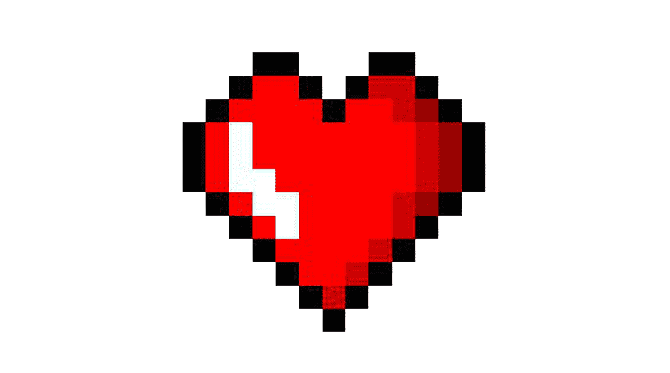
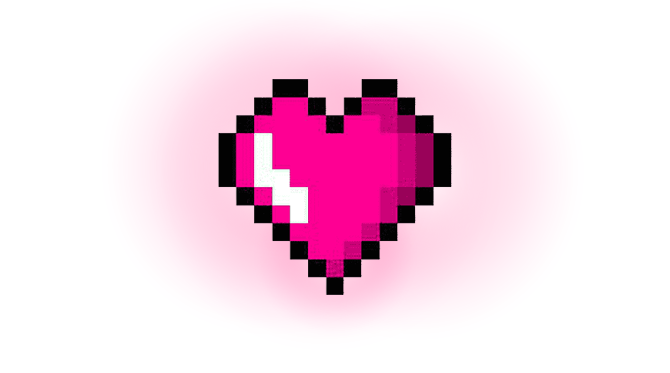
Add files via upload

diff --git a/OKUCare/level1.js b/OKUCare/level1.js
@@ -167,12 +167,20 @@ class level1 extends Phaser.Scene {
     // Add main player here with physics.add.sprite
     this.player = this.physics.add.sprite(start.x, start.y, "mainChar");
 
+    //adjust the width & height of bouding box
+this.player.body.setSize(this.player.width * 0.4, this.player.height * 0.4)
+
     this.player.setCollideWorldBounds(true);
 
     // Add enemy to Scene
     this.redCar = this.physics.add
       .sprite(redCar.x, redCar.y, "redCar")
       .setScale(1.5);
+
+      this.redCar.setSize(this.redCar.width * 1, this.redCar.height * 0.5)
+
+
+      
     this.redCar.play("redCarAnim"); // Play the animation
     this.tweens.add({
       targets: this.redCar,
@@ -191,6 +199,10 @@ class level1 extends Phaser.Scene {
     this.orangeCar = this.physics.add
       .sprite(orangeCar.x, orangeCar.y, "orangeCar")
       .setScale(1.5);
+
+      //adjust the width & height of bouding box
+this.orangeCar.setSize(this.orangeCar.width * 0.5, this.orangeCar.height * 1)
+      
     this.orangeCar.play("orangeCarAnim"); // Play the animation
     this.tweens.add({
       targets: this.orangeCar,
@@ -222,11 +234,18 @@ class level1 extends Phaser.Scene {
     this.pedLights = this.physics.add
       .sprite(pedLights.x, pedLights.y, "pedLights")
       .setScale(0.3);
+
+      
     this.pedLights.play("pedLightsAnim"); // Play the animation
 
     this.deafNPC = this.physics.add
       .sprite(deafNPC.x, deafNPC.y, "deafNPC")
       .setScale(1);
+
+      //adjust the width & height of bouding box
+this.deafNPC.body.setSize(this.deafNPC.width * 0.4, this.deafNPC.height * 0.4)
+
+
     this.deafNPC.play("deafNPCAnim"); // Play the animation
 
     // Keyboard controls
@@ -263,7 +282,7 @@ this.scene.launch("showInventory");
 this.physics.add.overlap(
   this.player,
   [this.redCar, this.orangeCar],
-  globalHitFire,
+  globalHitFire1,
   null,
   this
 );
@@ -296,6 +315,26 @@ this.physics.add.overlap(
       null,
       this
     );
+
+   
+    var spaceDown = this.input.keyboard.addKey('SPACE');
+
+let key1 = this.input.keyboard.addKey(49);
+let key2 = this.input.keyboard.addKey(50);
+let key3 = this.input.keyboard.addKey(51);
+
+key1.on('down', function(){
+    this.scene.start("level1");
+ }, this ); 
+    key2.on('down', function(){
+    this.scene.start("level2");
+    }, this );
+    key3.on('down', function(){
+    this.scene.start("level3");
+    }, this );
+
+
+
   }
 
   collectItem(player, item) {

diff --git a/OKUCare/level2.js b/OKUCare/level2.js
@@ -158,6 +158,9 @@ class level2 extends Phaser.Scene {
     // Add main player here with physics.add.sprite
     this.player = this.physics.add.sprite(start.x, start.y, "mainChar");
 
+    //adjust the width & height of bouding box
+this.player.body.setSize(this.player.width * 0.4, this.player.height * 0.4)
+
     // this.player.setCollideWorldBounds(true)
 
     // // Add enemy to Scene
@@ -232,6 +235,10 @@ class level2 extends Phaser.Scene {
     this.muteNPC = this.physics.add
       .sprite(muteNPC.x, muteNPC.y, "muteNPC")
       .setScale(1);
+
+      this.muteNPC.setSize(this.muteNPC.width * 0.5, this.muteNPC.height * 0.5)
+
+
     this.muteNPC.play("muteNPCAnim"); // Play the animation
 
     // Keyboard controls
@@ -247,7 +254,7 @@ class level2 extends Phaser.Scene {
     this.physics.add.overlap(
       this.player,
       [this.antQueen, this.antQueen2, this.cockroach, this.cockroach2],
-      globalHitFire,
+      globalHitFire2,
       null,
       this
     );
@@ -281,6 +288,22 @@ class level2 extends Phaser.Scene {
       this
     );
 
+    var spaceDown = this.input.keyboard.addKey('SPACE');
+
+let key1 = this.input.keyboard.addKey(49);
+let key2 = this.input.keyboard.addKey(50);
+let key3 = this.input.keyboard.addKey(51);
+
+key1.on('down', function(){
+    this.scene.start("level1");
+ }, this ); 
+    key2.on('down', function(){
+    this.scene.start("level2");
+    }, this );
+    key3.on('down', function(){
+    this.scene.start("level3");
+    }, this );
+
     // *** ADDED: Update inventory items
  this.time.addEvent({
   delay: 100,
@@ -296,7 +319,7 @@ this.scene.launch("showInventory");
 this.physics.add.overlap(
   this.player,
   [this.antQueen, this.antQueen2, this.cockroach, this.cockroach2],
-  globalHitFire,
+  globalHitFire2,
   null,
   this
 );

diff --git a/OKUCare/level3.js b/OKUCare/level3.js
@@ -184,6 +184,10 @@ class level3 extends Phaser.Scene {
     // Add main player here with physics.add.sprite
     this.player = this.physics.add.sprite(start.x, start.y, "mainChar");
 
+    //adjust the width & height of bouding box
+this.player.body.setSize(this.player.width * 0.4, this.player.height * 0.4)
+
+
     this.player.setCollideWorldBounds(true);
     // // Add enemy to Scene
     this.antQueen = this.physics.add
@@ -215,6 +219,9 @@ class level3 extends Phaser.Scene {
     this.redCar = this.physics.add
       .sprite(redCar.x, redCar.y, "redCar")
       .setScale(2.5);
+
+      this.redCar.setSize(this.redCar.width * 1, this.redCar.height * 0.5)
+
     this.redCar.play("redCarAnim"); // Play the animation
     this.tweens.add({
       targets: this.redCar,
@@ -227,6 +234,9 @@ class level3 extends Phaser.Scene {
     this.redCar2 = this.physics.add
       .sprite(redCar2.x, redCar2.y, "redCar")
       .setScale(2.5);
+
+      this.redCar2.setSize(this.redCar2.width * 1, this.redCar2.height * 0.5)
+
     this.redCar2.play("redCarAnim"); // Play the animation
     this.tweens.add({
       targets: this.redCar2,
@@ -299,7 +309,12 @@ class level3 extends Phaser.Scene {
     this.blindNPC = this.physics.add
       .sprite(blindNPC.x, blindNPC.y, "blindNPC")
       .setScale(1);
+
+      this.blindNPC.body.setSize(this.blindNPC.width * 0.4, this.blindNPC.height * 0.4)
+
     this.blindNPC.play("blindNPCAnim"); // Play the animation
+
+    
 
     // Keyboard controls
     this.cursors = this.input.keyboard.createCursorKeys();
@@ -361,7 +376,7 @@ class level3 extends Phaser.Scene {
         this.cockroach,
         this.cockroach2,
       ],
-      globalHitFire,
+      globalHitFire3,
       null,
       this
     );

diff --git a/OKUCare/globalFunctions.js b/OKUCare/globalFunctions.js
@@ -24,7 +24,7 @@ function updateInventory() {
   // Uses a JS function to prevent repeated codes
   // 
   ///////////////////////////////////////////////////////
-  function globalHitFire(player,item) {
+  function globalHitFire1(player,item) {
       console.log("*** player overlap fire");
      
       // Shake screen
@@ -44,6 +44,49 @@ function updateInventory() {
       //this.loselifeSnd.play();
     }
   }
+
+
+  function globalHitFire2(player,item) {
+    console.log("*** player overlap fire");
+   
+    // Shake screen
+   this.cameras.main.shake(100);
+   //this.hitenemySnd.play();
+
+    // deduct heart
+    window.heart--;
+    item.disableBody(true, true);
+    
+    // Call globalFunctions.js updateInventory
+    updateInventory.call(this)
+
+  if (window.heart == 0){
+    console.log("*** player gameosver");
+    this.scene.start("gameover");
+    //this.loselifeSnd.play();
+  }
+}
+
+function globalHitFire3(player,item) {
+  console.log("*** player overlap fire");
+ 
+  // Shake screen
+ this.cameras.main.shake(100);
+ //this.hitenemySnd.play();
+
+  // deduct heart
+  window.heart--;
+  item.disableBody(true, true);
+  
+  // Call globalFunctions.js updateInventory
+  updateInventory.call(this)
+
+if (window.heart == 0){
+  console.log("*** player gameosver");
+  this.scene.start("gameover");
+  //this.loselifeSnd.play();
+}
+}
   
   ////////////////////////////////////////////////////////
   //

diff --git a/OKUCare/showInventory.js b/OKUCare/showInventory.js
@@ -23,10 +23,10 @@
         console.log("***showInventory");
         this.scene.bringToTop("showInventory");
 
-        //black bar
-        var rect = new Phaser.Geom.Rectangle(29, 10, 500, 80);
-        var graphics = this.add.graphics({ fillStyle: { color: '0xffffff' } });
-        graphics.fillRectShape(rect).setScrollFactor(0)
+        // //black bar
+        // var rect = new Phaser.Geom.Rectangle(10, 10, 500, 65);
+        // var graphics = this.add.graphics({ fillStyle: { color: 'ed00ac' } });
+        // graphics.fillRectShape(rect).setScrollFactor(0)
 
        // Setup heart but visible to false
        this.heartimg1 = this.add.image (100,43,'heart').setScrollFactor(0).setVisible(true).setScale(0.2);

diff --git a/OKUCare/index.html b/OKUCare/index.html
@@ -6,7 +6,7 @@
 <meta http-equiv="Expires" content="0" />
 
 <head>
-    <title>Ultima V1 with Phaser3</title>
+    <title>OKU Care+</title>
 
     <script type="text/javascript" src="../phaser.min.js"></script>
     <script type="text/javascript" src="globalFunctions.js"></script>
@@ -26,8 +26,8 @@
 
     <style>
         body {
-            padding: 20px;
-            margin: 20px;
+            padding: 8px;
+            margin: 8px;
         }
     </style>
 

diff --git a/OKUCare/gameover.js b/OKUCare/gameover.js
@@ -27,6 +27,14 @@ class gameover extends Phaser.Scene {
       "down",
       function () {
         console.log("Jump to main scene");
+        
+      //   this.scene.start('level1',
+      //     // Optional parameters
+      //     {
+
+      //     }
+      // );
+ 
 
         window.heart = 3; // Reset hearts
 
